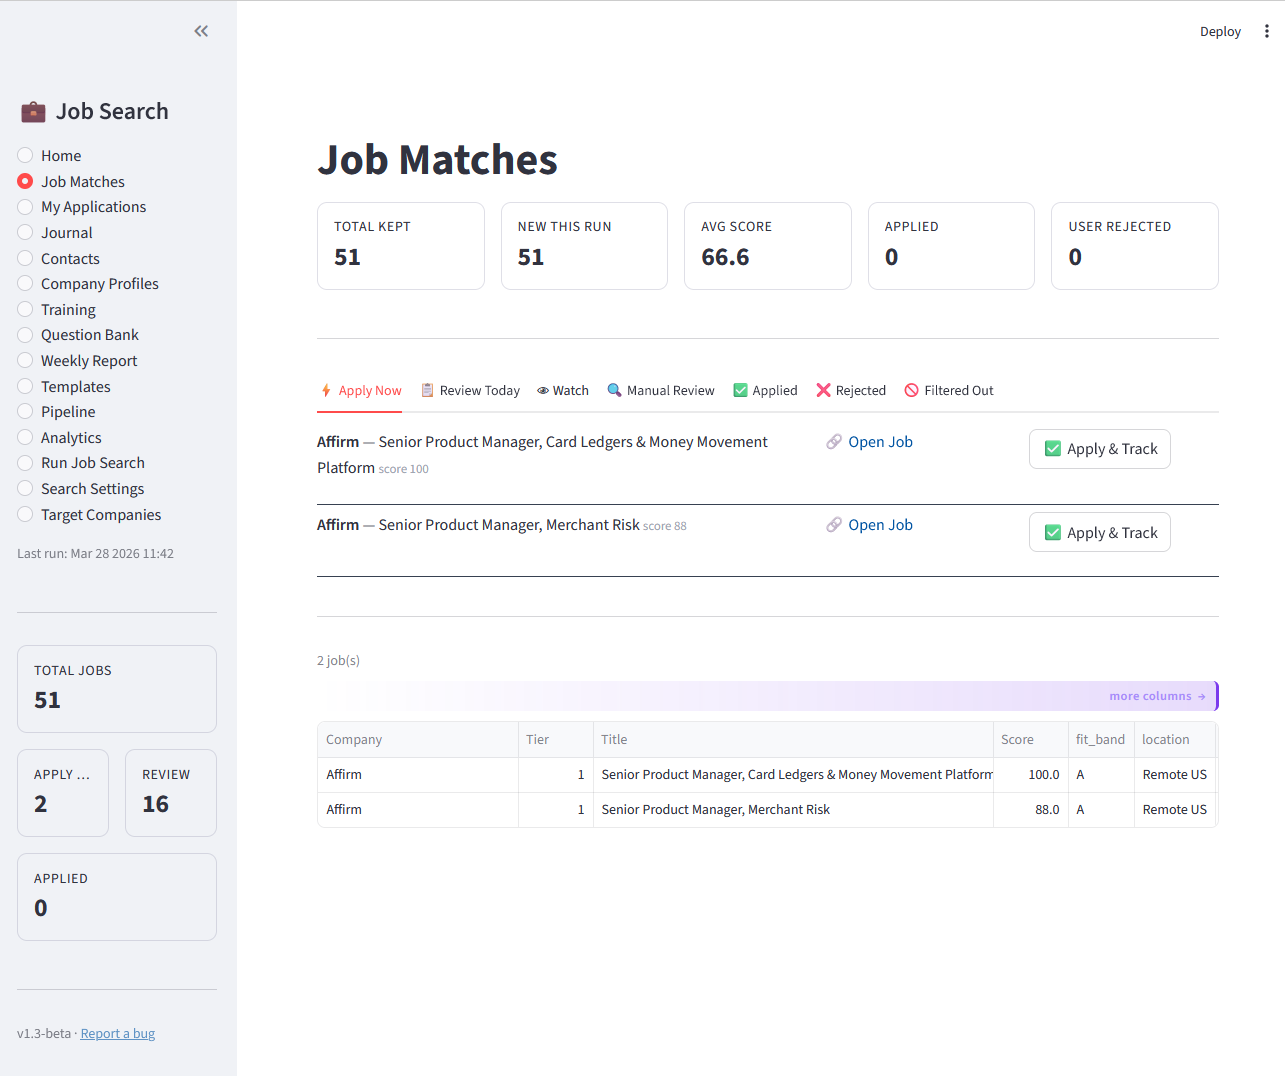
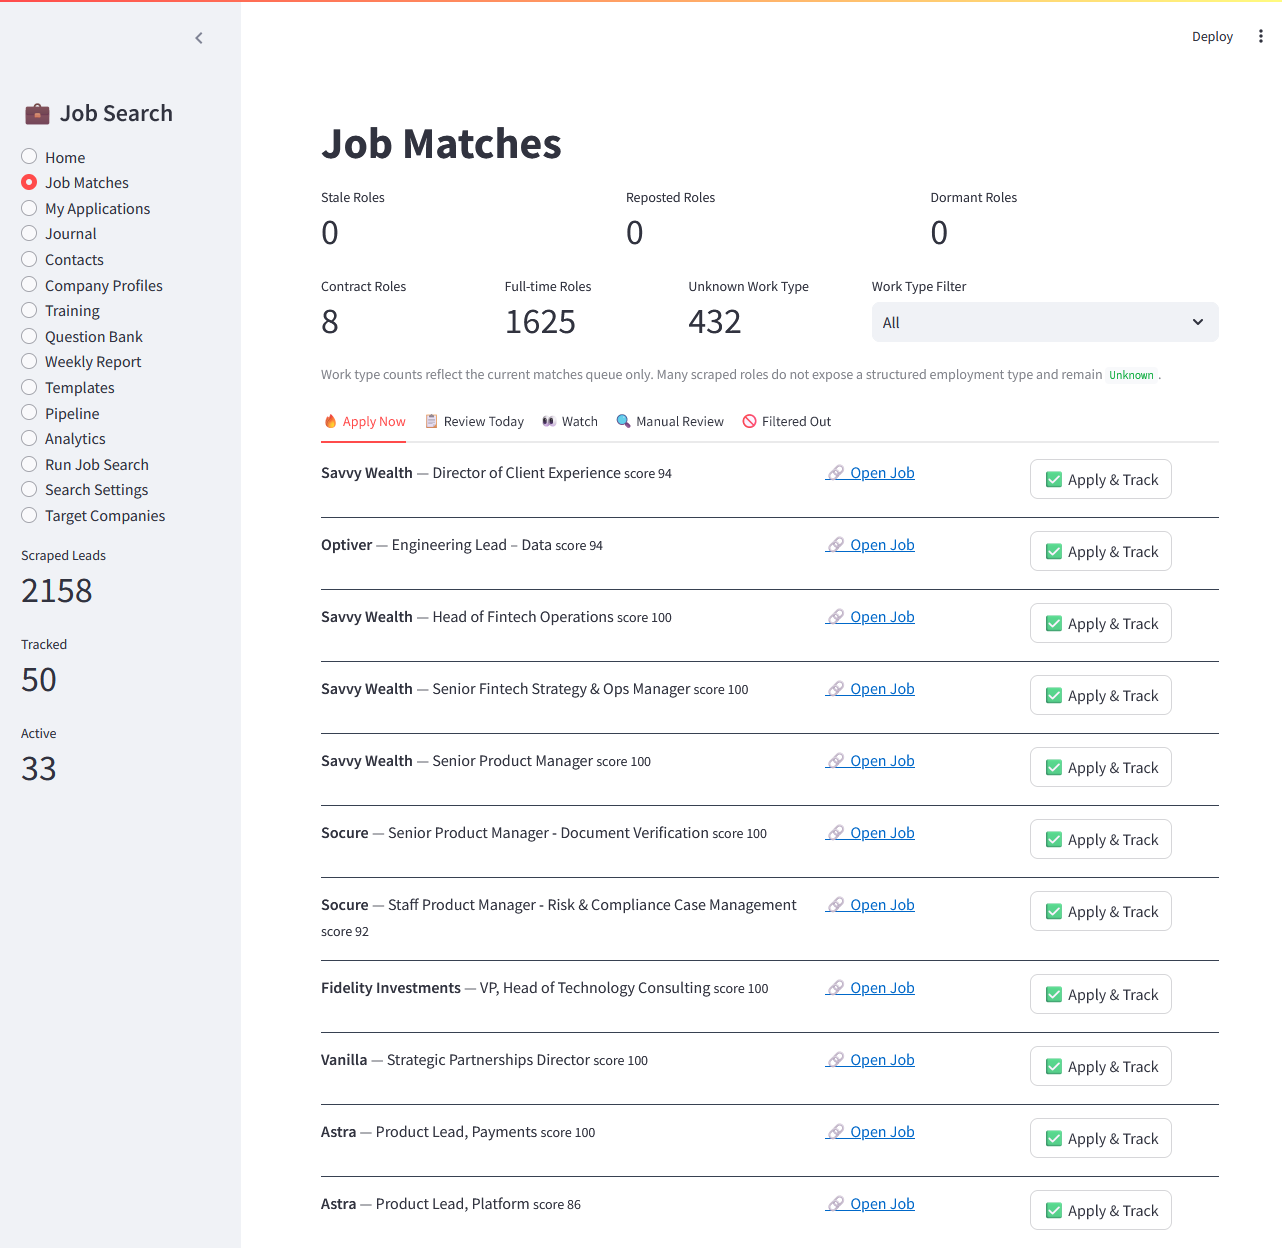
Add screenshots and anonymization script to user guide
Integrates 14 annotated screenshots across all major dashboard sections.
Screenshots were processed with anonymize_text.py (OCR-based replacement
of company and role names with fictional placeholders). Anonymization
script retained in repo for future screenshot updates.

diff --git a/anonymize_text.py b/anonymize_text.py
@@ -1,0 +1,119 @@
+import os
+import random
+from PIL import Image, ImageDraw, ImageFont
+from kraken import binarization, pageseg
+
+FAKE_COMPANIES = [
+    "Acme Corp", "Globex", "Initech", "Umbrella Corp", "Stark Industries",
+    "Wayne Enterprises", "Massive Dynamic", "Hooli", "Cyberdyne", "Soylent",
+    "Pied Piper", "Goliath National", "Dunder Mifflin", "Aperture Science"
+]
+
+FAKE_ROLES = [
+    "Software Engineer", "Product Manager", "Data Scientist", "UX Designer",
+    "DevOps Engineer", "QA Automation", "System Admin", "Security Analyst",
+    "Frontend Developer", "Backend Engineer", "Engineering Manager"
+]
+
+def get_bg_color(im, box):
+    # Sample a few pixels just outside the left edge of the box
+    x0, y0, x1, y1 = box
+    sample_x = max(0, x0 - 5)
+    sample_y = (y0 + y1) // 2
+    try:
+        return im.getpixel((sample_x, sample_y))
+    except Exception:
+        return (255, 255, 255) # Fallback to white
+
+def anonymize_with_text():
+    screenshot_dir = "docs/Screenshots"
+    
+    # Try to load a standard font
+    try:
+        font = ImageFont.truetype("segoeui.ttf", 14)
+    except IOError:
+        try:
+            font = ImageFont.truetype("arial.ttf", 14)
+        except IOError:
+            font = ImageFont.load_default()
+
+    config = {
+        "jobmatches.png": {
+            "columns": [
+                {"x_range": (240, 420), "type": "company"}, # Company
+                {"x_range": (420, 700), "type": "role"}    # Role
+            ],
+            "y_min": 350
+        },
+        "myapplications.png": {
+            "columns": [
+                {"x_range": (250, 450), "type": "company"}, # Upcoming interview company
+                {"x_range": (350, 520), "type": "company"}, # Table Company
+                {"x_range": (520, 850), "type": "role"}     # Table Role
+            ],
+            "y_min": 180
+        },
+        "weeklyactivity.png": {
+            "columns": [
+                {"x_range": (300, 450), "type": "company"}, # Table Company
+                {"x_range": (450, 800), "type": "role"}     # Table Role
+            ],
+            "y_min": 600,
+            "hide_boxes": [
+                (250, 840, 1100, 1229) # Just white out the bottom report to be safe
+            ]
+        }
+    }
+
+    for name, cfg in config.items():
+        p = os.path.join(screenshot_dir, name)
+        if not os.path.exists(p):
+            continue
+            
+        print(f"Processing {name} with text replacement...")
+        im = Image.open(p).convert("RGB")
+        draw = ImageDraw.Draw(im)
+        
+        bw = binarization.nlbin(im)
+        seg = pageseg.segment(bw)
+        
+        # Process special hide boxes (fill with white)
+        for box in cfg.get("hide_boxes", []):
+            draw.rectangle(box, fill=(245, 246, 250)) # Light gray typical for backgrounds
+            
+        y_min = cfg.get("y_min", 0)
+        columns = cfg.get("columns", [])
+        
+        for line in seg.lines:
+            x0, y0, x1, y1 = line.bbox
+            
+            if y0 < y_min:
+                continue
+                
+            # Determine which column this text is in
+            for col in columns:
+                xr_start, xr_end = col["x_range"]
+                # If center of the text box is in the column range
+                center_x = (x0 + x1) // 2
+                if xr_start <= center_x <= xr_end:
+                    bg_color = get_bg_color(im, line.bbox)
+                    
+                    # Fill the box to erase original text
+                    draw.rectangle([x0-2, y0-2, x1+2, y1+2], fill=bg_color)
+                    
+                    # Choose text
+                    if col["type"] == "company":
+                        text = random.choice(FAKE_COMPANIES)
+                    else:
+                        text = random.choice(FAKE_ROLES)
+                        
+                    # Draw new text
+                    # We use a dark grey color common in UIs
+                    draw.text((x0, y0), text, fill=(50, 50, 50), font=font)
+                    break # Only process once per text box
+                    
+        im.save(p)
+        print(f"Saved {name}.")
+
+if __name__ == "__main__":
+    anonymize_with_text()

diff --git a/USER_GUIDE.md b/USER_GUIDE.md
@@ -67,6 +67,8 @@ On first launch the launcher creates a virtual environment, installs dependencie
 
 When you first open the app, the Home page shows a setup checklist. Work through it top to bottom before running your first search.
 
+![Setup checklist on first launch](docs/Screenshots/dashboard.png)
+
 ### Step 1 — Configure Search Settings
 
 Open **Search Settings** in the left sidebar. There are five tabs:
@@ -153,6 +155,8 @@ Run **Heal ATS** periodically (weekly is usually enough) to catch companies that
 
 The **Job Matches** page shows all scraped jobs that passed the scoring threshold, sorted by score descending.
 
+![Job Matches — scored roles from all active target companies](docs/Screenshots/jobmatches.png)
+
 **Key columns:**
 - **Score / Band** — numeric score and fit band label
 - **Matched / Penalized** — the specific keywords that drove the score up or down
@@ -172,6 +176,8 @@ The **Job Matches** page shows all scraped jobs that passed the scoring threshol
 ## 6. My Applications — Tracking Your Pipeline
 
 The **My Applications** tracker is the core CRM. Every application you actively pursue lives here.
+
+![My Applications — full pipeline list with Gmail sync and stage counts](docs/Screenshots/myapplications.png)
 
 ### Stage Workflow
 
@@ -193,6 +199,9 @@ Expanding an application shows tabbed sections:
 **Events**
 - Log any interaction: applied, recruiter outreach, phone screen scheduled/complete, interview scheduled/complete, offer received, offer negotiating, follow-up sent, note
 - Each event is timestamped and shown in a chronological feed
+- Gmail-detected events are imported automatically and shown inline
+
+![Application detail — event timeline with Gmail-detected interview signals](docs/Screenshots/applicationdetail.png)
 
 **Follow-up**
 - Set a follow-up date and note
@@ -219,6 +228,8 @@ Expanding an application shows tabbed sections:
 - When you reach offer stage, record: base, bonus %, equity, signing, PTO, 401k match, remote policy, start date, offer expiry
 - Normalized total comp is calculated automatically for comparison across FTE and contract roles
 
+![Offer details form — compensation fields and policy tracking](docs/Screenshots/offerdetails.png)
+
 **Offer Comparison & Negotiation**
 - Side-by-side total comp comparison across multiple offers
 - Negotiation worksheet: your floor, your target, the posted range, days the role has been open (leverage signal), and a counter-offer note field
@@ -242,6 +253,8 @@ The tracker automatically calculates follow-up due dates based on current stage.
 
 **Pipeline** shows a tabular Kanban across active stages (Applied, Screening, Interviewing, Offer). Use it for a quick status sweep across all live applications. You can change status directly from the table.
 
+![ATS Pipeline — tabular kanban across active stages](docs/Screenshots/Pipeline.png)
+
 The view also shows time-in-stage for each application. Applications stuck in the same stage for more than 7 days are highlighted — a signal to follow up or move on.
 
 ---
@@ -249,6 +262,8 @@ The view also shows time-in-stage for each application. Applications stuck in th
 ## 8. Home Dashboard
 
 The Home page gives an at-a-glance status of your search:
+
+![Home dashboard — KPIs, pipeline summary, and activity trends](docs/Screenshots/Homepage.png)
 
 - **Overdue follow-ups** — applications past their follow-up date, with one-click links
 - **Active pipeline count** — how many roles are in each active stage
@@ -261,6 +276,8 @@ The Home page gives an at-a-glance status of your search:
 ## 9. Analytics
 
 The **Analytics** page shows where your search is working and where it isn't.
+
+![Analytics — funnel overview with conversion rates](docs/Screenshots/analytics.png)
 
 **Funnel counts** — how many applications are in each stage, and cumulative totals.
 
@@ -275,6 +292,14 @@ The **Analytics** page shows where your search is working and where it isn't.
 **Score vs. outcome** — scatter plot of your score at application versus final outcome (interview, offer, rejected). Over time this shows whether your scoring predicts success.
 
 **Company pipeline** — how many applications and what stages at each company.
+
+**Rejection Pattern Analysis** — after enough data, surfaces which companies and title families are consistently rejecting you, and what penalty signals appear most often.
+
+![Rejection Pattern Analysis — top rejected companies and common penalty signals](docs/Screenshots/rejection.png)
+
+**Resume Keyword Gap Analysis** — compares your stored base resume against all matched roles to surface the most common JD terms you're missing.
+
+![Resume Keyword Gap Analysis — gap keywords ranked by frequency across matched roles](docs/Screenshots/gaps.png)
 
 **Rejected jobs browser** — review the jobs that were scored out. Useful for tuning your `minimum_score_to_keep`.
 
@@ -311,6 +336,8 @@ For each contact you can store:
 ## 12. Interview Question Bank
 
 The **Question Bank** is your behavioral interview story library. Write a STAR answer once and reuse it across every interview.
+
+![Question Bank — behavioral categories with STAR story prompts](docs/Screenshots/questionbank.png)
 
 ### Categories
 
@@ -383,11 +410,17 @@ Useful for keeping your resume and interview prep current as you learn, and for 
 
 Originally designed to simplify unemployment benefit paperwork — the report lists every logged event (applications submitted, calls made, interviews attended) in the format those forms typically require.
 
+![Weekly Report — activity log with benefit certification summary](docs/Screenshots/weeklyactivity.png)
+
 Select a date range and export the table directly. All event types are translated to human-readable descriptions (e.g. `interview_complete` → *In-person / video interview*).
 
 ---
 
 ## 17. Search Settings Reference
+
+### JD Evaluation — Positive and Negative Keywords
+
+![Search Settings — JD keyword weights for scoring](docs/Screenshots/searchprefscoring.png)
 
 ### Compensation & Location
 
@@ -430,6 +463,8 @@ Select a date range and export the table directly. All event types are translate
 
 ## 18. Target Companies Reference
 
+![Target Companies — registry list with adapter and tier columns](docs/Screenshots/targets.png)
+
 ### Company Fields
 
 | Field | Required | Description |
@@ -456,6 +491,8 @@ Select a date range and export the table directly. All event types are translate
 | `generic` | Any careers page without a supported ATS |
 
 ### Heal ATS
+
+![Heal ATS — configuration options before running a heal pass](docs/Screenshots/healats.png)
 
 The healer probes each company's careers URL and attempts to:
 - Confirm the board is live
